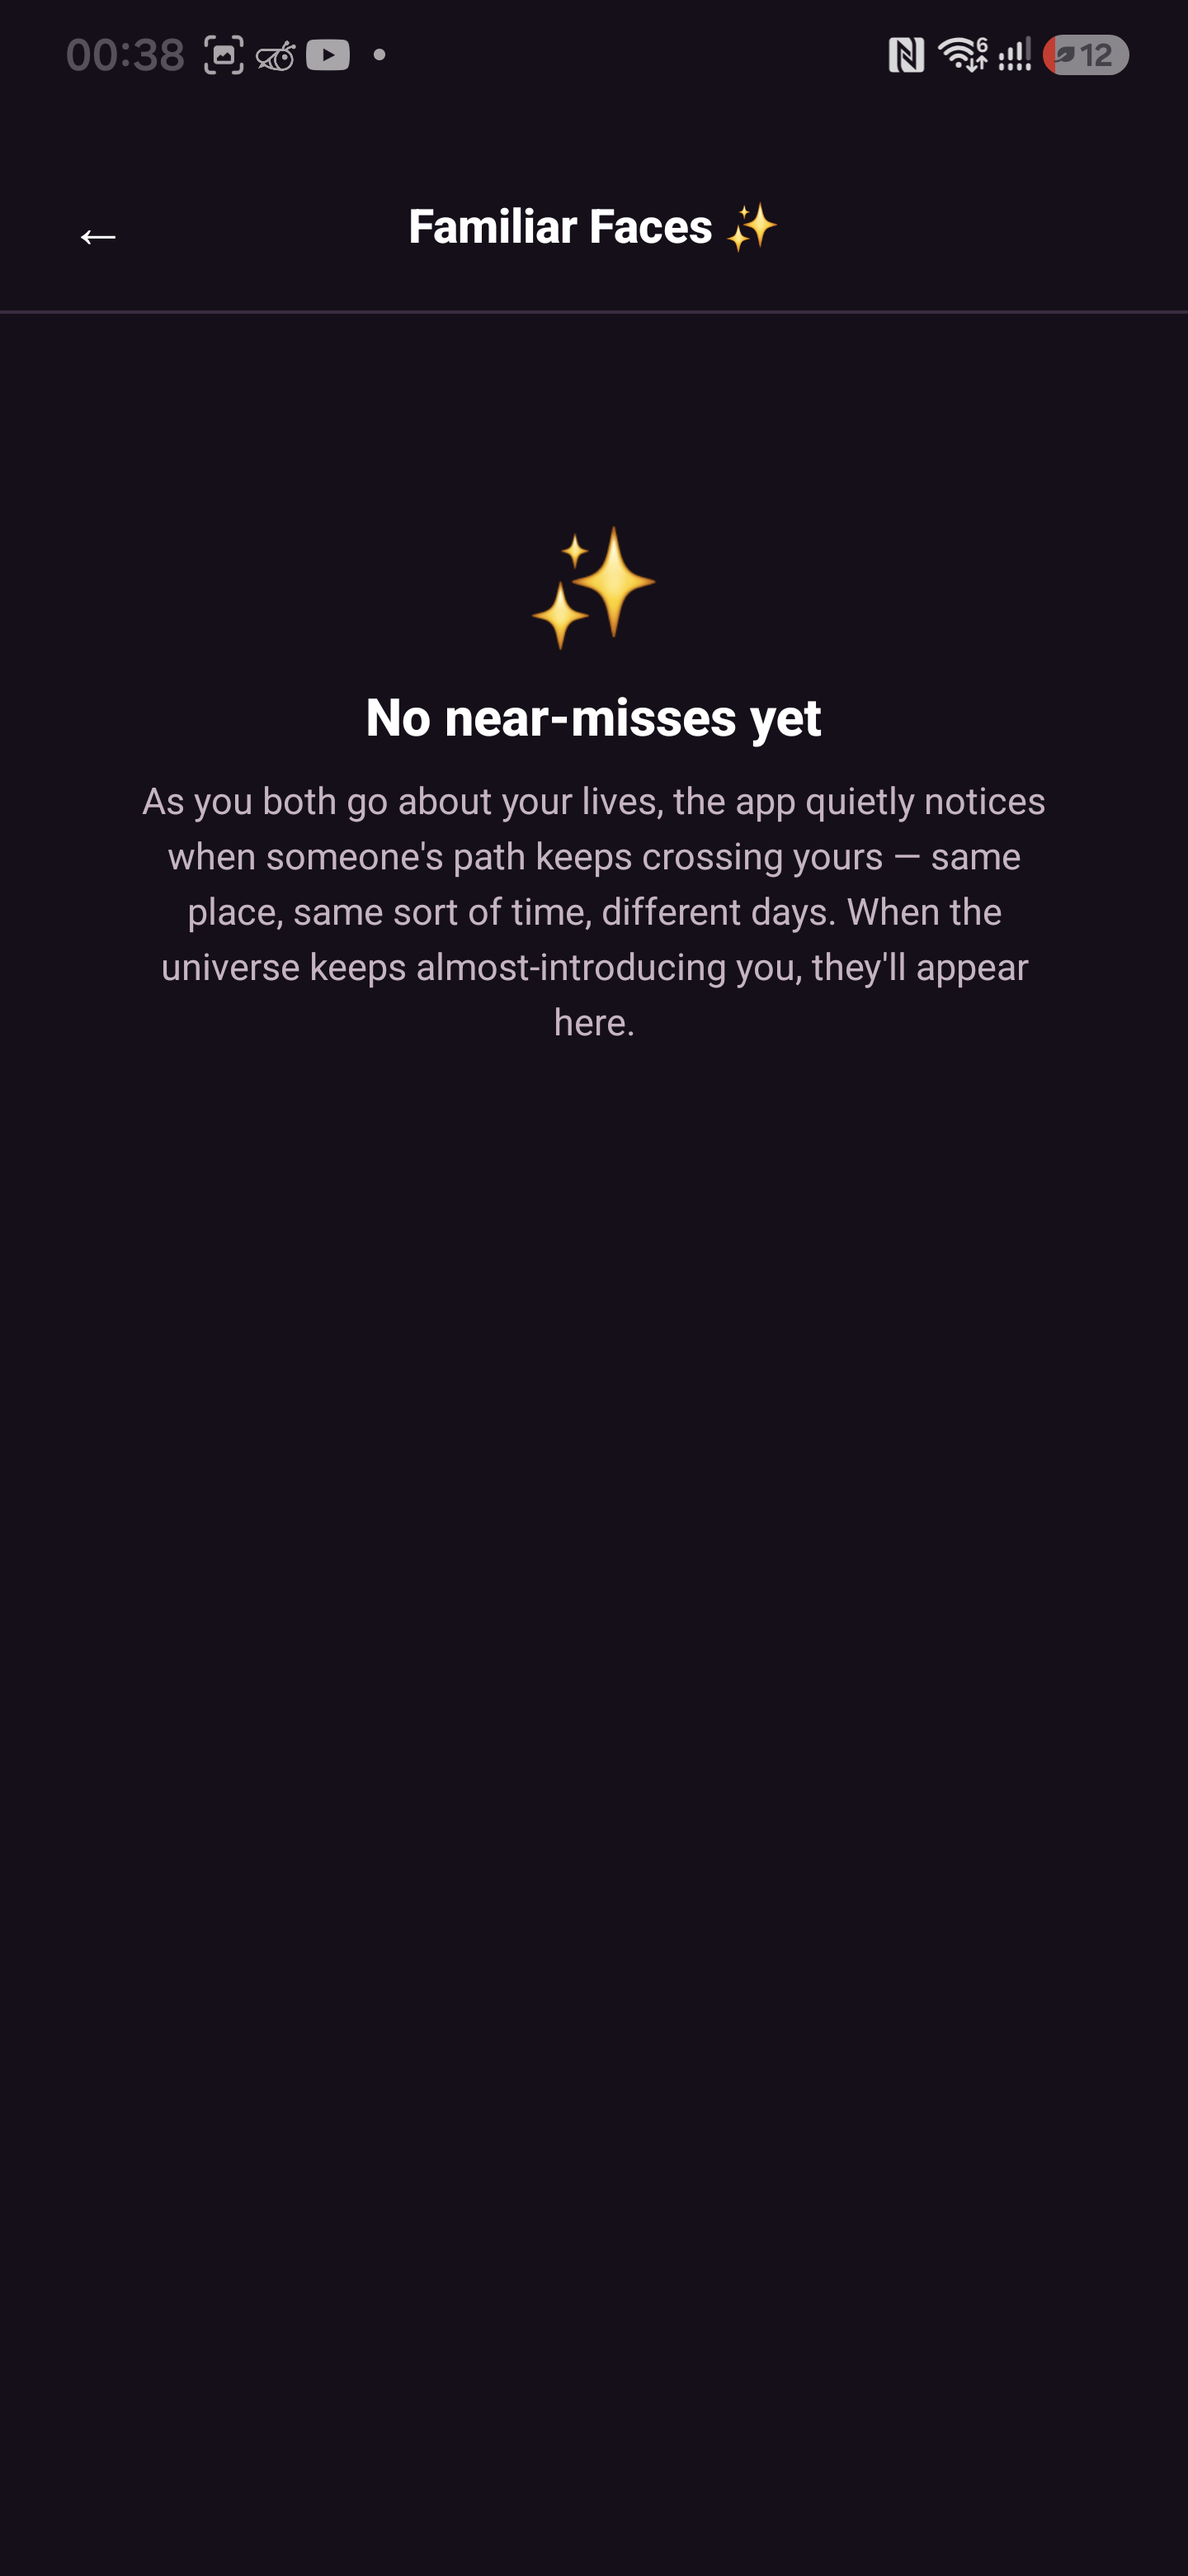
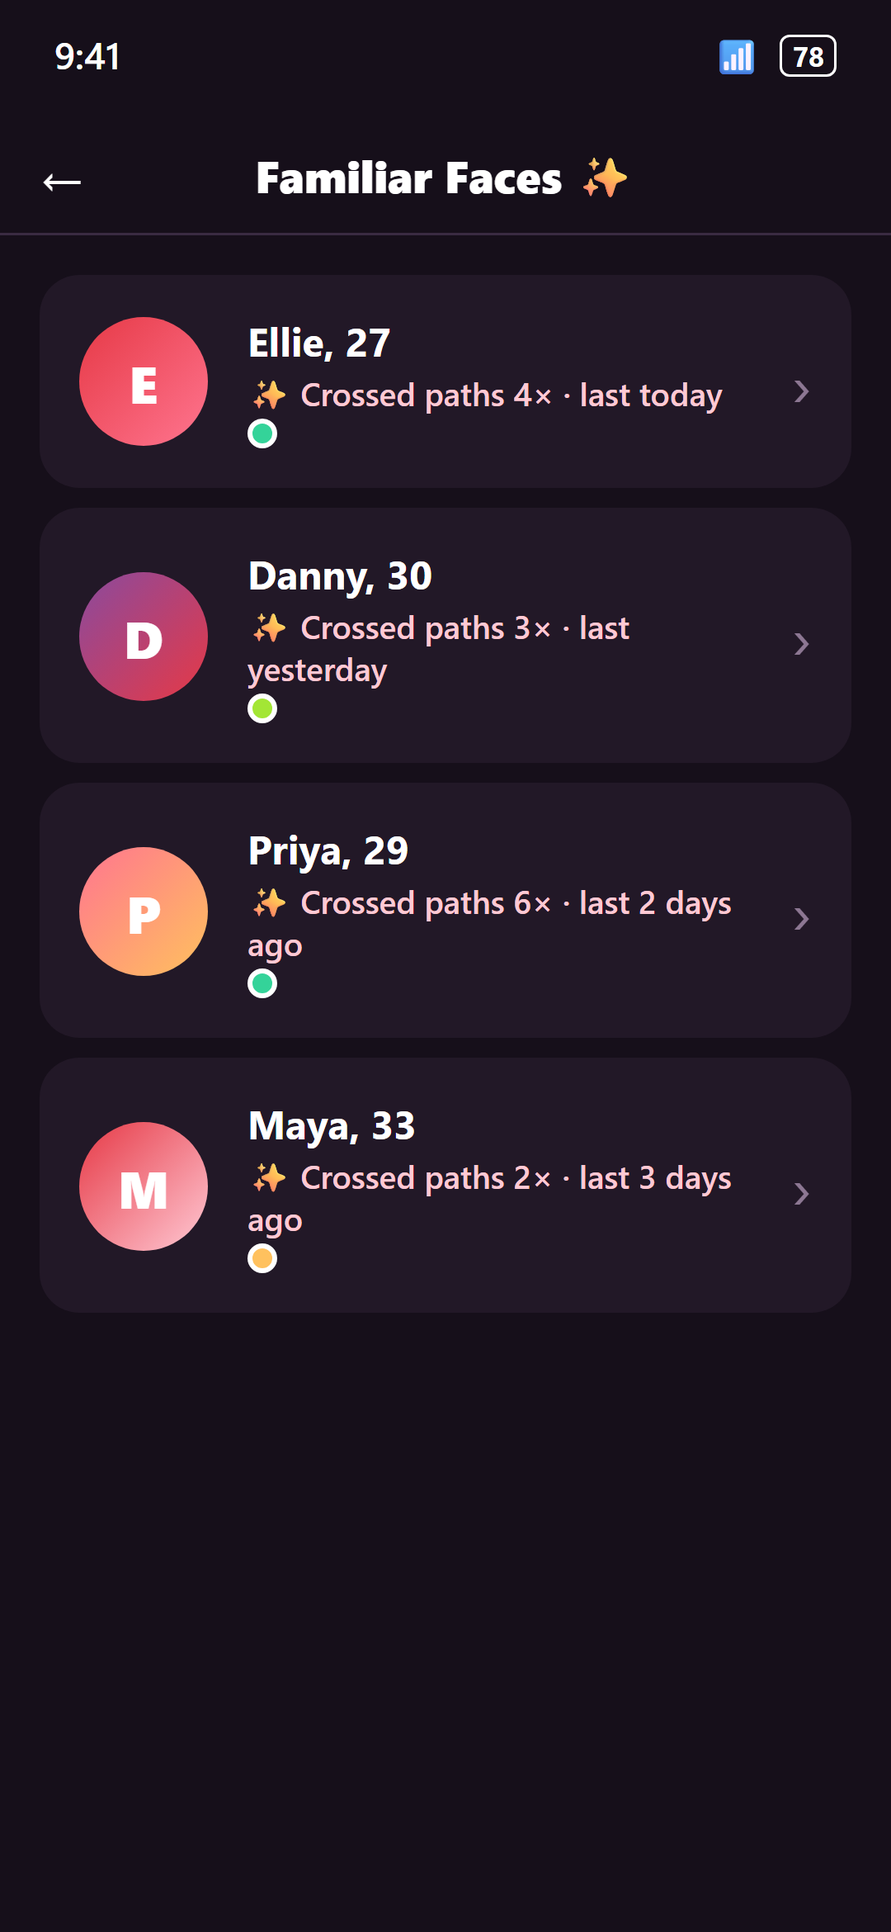
Landing: populated MeetCute screens (true to app) + Blind Date annotation
- Replace the empty-state app screenshots with accurate populated recreations
  built from the real app code (src/screens/main/*): Tonight (busy room with
  icebreaker + chat), Here Now (people nearby with energy + say-hi/message),
  Talk To Me (real profile "Sophie, 28", app's blurred voice-mode look),
  Familiar Faces (crossed-paths matches). Exact theme tokens; safe gradient-
  initial avatars, no real faces, normal names.
- Add annotation under Blind Date quoting its opening line.

diff --git a/marketing/landing-page/index.html b/marketing/landing-page/index.html
@@ -111,6 +111,8 @@
     .card .shot{width:min(224px,68%);aspect-ratio:1440/3120;margin:0 auto 20px;background:#0d0812;border:1px solid var(--line);border-radius:20px;overflow:hidden;position:relative;cursor:zoom-in;box-shadow:0 18px 40px -22px rgba(0,0,0,.8);transition:transform .25s,box-shadow .25s}
     .card .shot:hover{transform:translateY(-4px);box-shadow:0 30px 60px -24px rgba(0,0,0,.85)}
     .card .shot img{width:100%;height:100%;object-fit:cover;display:block}
+    .card .annot{font-size:13.5px;color:var(--muted);margin-top:10px;border-top:1px solid var(--line);padding-top:10px}
+    .card .annot em{color:var(--pink);font-style:italic}
     .card .shot::after{content:"⤢ tap to zoom";position:absolute;top:12px;right:12px;background:rgba(0,0,0,.55);color:#fff;font-size:11.5px;font-weight:600;padding:5px 10px;border-radius:100px;backdrop-filter:blur(4px);opacity:0;transition:opacity .25s}
     .card .shot:hover::after{opacity:1}
 
@@ -304,6 +306,7 @@
             <div class="shot"><img loading="lazy" src="https://raw.githubusercontent.com/btf123/abletolove/main/marketing/landing-page/screens/app-blind-date.png" alt="The Able2Love Blind Date screen: meet a voice, not a photo — photos locked, no names."></div>
             <h3>Blind Date</h3>
             <p>A voice call with someone compatible, photos locked and no names. Talk for a few minutes, and if you both say keep talking, it becomes a match.</p>
+            <p class="annot">☝ Exactly what greets you when you open Blind Date: <em>“Meet a voice, not a photo.”</em></p>
           </div>
           <div class="card">
             <div class="shot"><img loading="lazy" src="https://raw.githubusercontent.com/btf123/abletolove/main/marketing/landing-page/screens/app-familiar-faces.png" alt="The Able2Love Familiar Faces screen: people whose paths keep crossing yours."></div>
